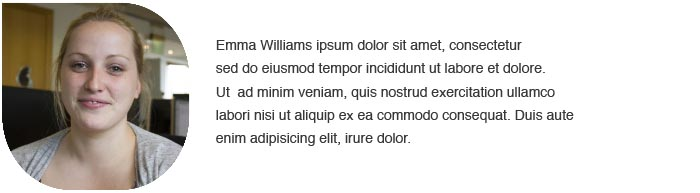
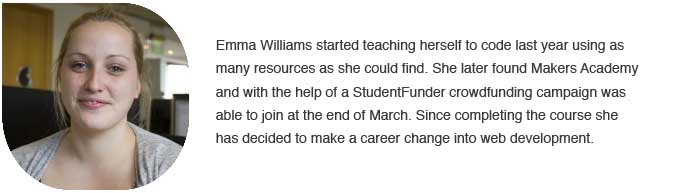
Emma's blurb now up

diff --git a/README.md b/README.md
@@ -1,6 +1,6 @@
 <!-- hey guys! I'm working on this slowly each day, and please contribute to your liking -->
-<!--- Got Steve's and Muhana's blurb --->
-<!-- Shelley, Ollie, Emma, Stef blurb still needed -->
+<!--- Got Steve, Muhanad and Emma's blurb --->
+<!-- Shelley, Ollie, Stef blurb still needed -->
 [unipop]
 ====
 **Connecting student buyers and sellers quickly, efficiently, and beautifully.**
